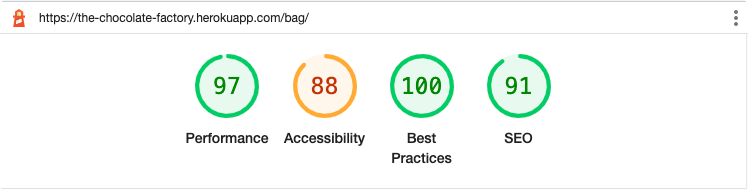
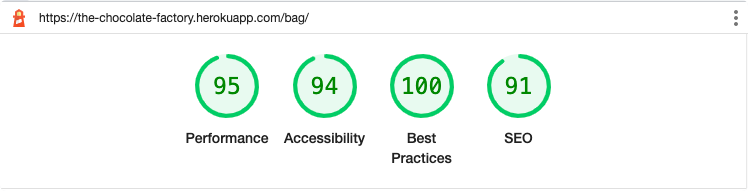
docs: update testing screenshots + notes

Changed region(s): [[0.369, 0.288, 0.492, 0.6283], [0.3075, 0.4188, 0.3382, 0.4974], [0.2767, 0.288, 0.3075, 0.3141]]

diff --git a/TESTING.md b/TESTING.md
@@ -24,7 +24,7 @@
 
 ## Google's Lighthouse Performance
 
-[Google Lighthouse](https://developers.google.com/web/tools/lighthouse) was used to test the performance of the website.
+[Google Lighthouse](https://developers.google.com/web/tools/lighthouse) was used to test the performance of the website. There are a couple of issues due to Bootstrap, Stripe and general Heroku slowness.
 
 <details><summary>Home</summary>
 <img src="docs/testing/lighthouse/lighthouse-home.png">
@@ -44,6 +44,9 @@
 <details><summary>Bag</summary>
 <img src="docs/testing/lighthouse/lighthouse-bag.png">
 </details>
+<details><summary>Checkout</summary>
+<img src="docs/testing/lighthouse/lighthouse-checkout.png">
+</details>
 <details><summary>Privacy Policy</summary>
 <img src="docs/testing/lighthouse/lighthouse-privacy.png">
 </details>
@@ -59,7 +62,35 @@
 
 ## Accessibility Validation
 
-The [WAVE WebAIM web accessibility evaluation tool](https://wave.webaim.org/) was used to ensure the website met high accessibility standards. All pages pass with 0 errors, except for the Profile page and Checkout page. This is due to the forms not using labels. With more time I can dig into this, however, for now it has been saved as an open issue on the Github repository.
+The [WAVE WebAIM web accessibility evaluation tool](https://wave.webaim.org/) was used to ensure the website met high accessibility standards. All pages pass with 0 errors, except for the checkout page that has a contrast error. This is only for placeholder text.
+
+<details><summary>Home</summary>
+<img src="docs/testing/wave/wave-home.png">
+</details>
+<details><summary>Register</summary>
+<img src="docs/testing/wave/wave-register.png">
+</details>
+<details><summary>Products</summary>
+<img src="docs/testing/wave/wave-products.png">
+</details>
+<details><summary>Product Detail</summary>
+<img src="docs/testing/wave/wave-product-detail.png">
+</details>
+<details><summary>Producers</summary>
+<img src="docs/testing/wave/wave-producers.png">
+</details>
+<details><summary>Bag</summary>
+<img src="docs/testing/wave/wave-bag.png">
+</details>
+<details><summary>Checkout</summary>
+<img src="docs/testing/wave/wave-checkout.png">
+</details>
+<details><summary>Privacy Policy</summary>
+<img src="docs/testing/wave/wave-privacy.png">
+</details>
+<details><summary>Terms & Conditions</summary>
+<img src="docs/testing/wave/wave-privacy.png">
+</details>
 
 *Go back to the [top](#table-of-contents)*
 
@@ -139,9 +170,14 @@ The [W3C Jigsaw CSS Validation Service](https://jigsaw.w3.org/css-validator/vali
 
 ## PEP8 Validation
 
-A combination of the following Python packages was used to ensure the code is PEP8 compliant: flake8, autopep8 and black. After which `flake8 --statistics` was ran in VSCode terminal and the final flagged files were checked in [PEP8 Online](http://pep8online.com). The only issues found were a few longer lines in the project's settings.py.
+A combination of the following Python packages was used to ensure the code is PEP8 compliant: flake8, autopep8 and black. After which `flake8 --statistics` was ran in VSCode terminal and the final flagged files were checked in [PEP8 Online](http://pep8online.com). The only issues found were a few longer lines in the base project's settings.py and checkout's forms.py due to HTML blocks.
 
-![PEP8 valudation](docs/testing/validation/pep8.png)
+<details><summary>settings.py</summary>
+<img src="docs/testing/validation/pep8-settings.png">
+</details>
+<details><summary>checkout/forms.py</summary>
+<img src="docs/testing/validation/pep8-checkout-form.png">
+</details>
 
 *Go back to the [top](#table-of-contents)*
 
